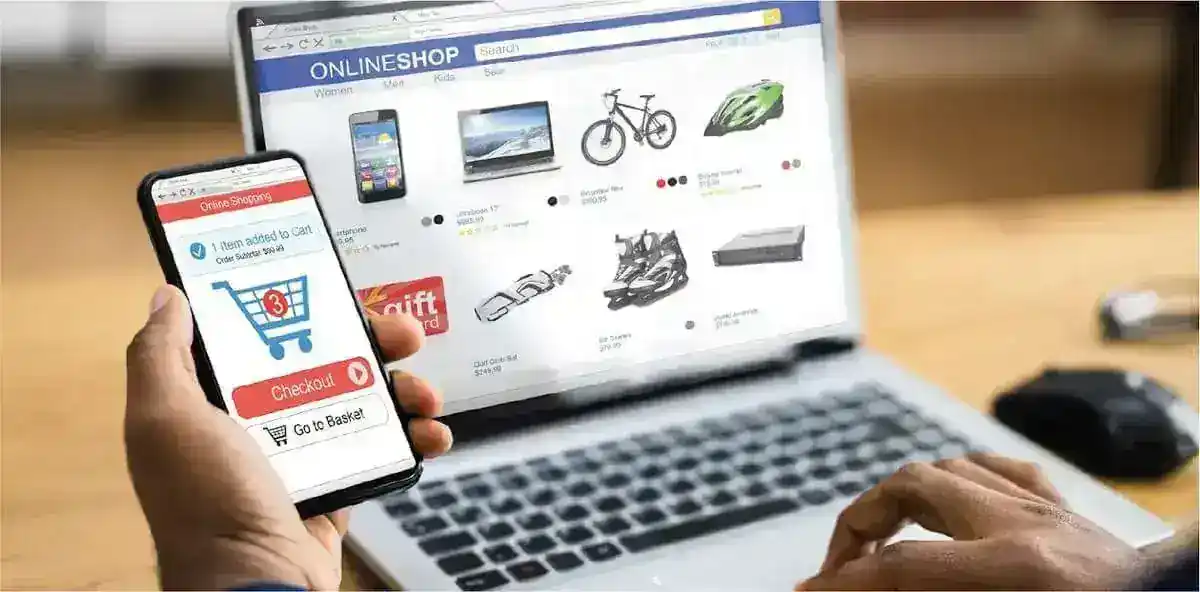
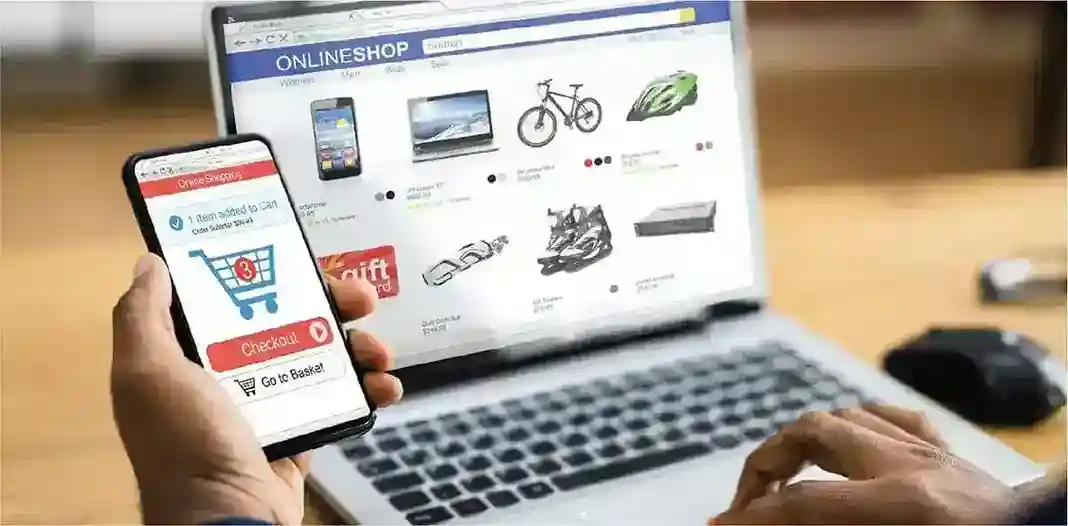
imagen

diff --git a/index.html b/index.html
@@ -94,6 +94,8 @@
     <link rel="preload" rel="stylesheet" href="https://cdnjs.cloudflare.com/ajax/libs/font-awesome/6.x.x/css/all.min.css" as="style">
   </noscript>
 
+  <link rel="preload" as="image" href="Desarrollo-web-e-E-commerce-Comunitega.webp">
+
 </head>
 
 <!-- Sección de contenido de la página -->
@@ -212,7 +214,7 @@
                   <!-- Desarrollo web e E-commerce Comunitega del carrusel -->
                   <div class="carousel-item active">
                     <img class="d-block w-100" src="Desarrollo-web-e-E-commerce-Comunitega.webp"
-                      alt="Desarrollo web e E-commerce Comunitega">
+                      alt="Desarrollo web e E-commerce Comunitega" loading="eager" fetchpriority="high">
                   </div>
                   <div class="carousel-item">
                     <img class="d-block w-100" src="Gestión-de-redes-sociales-Comunitega.webp"
